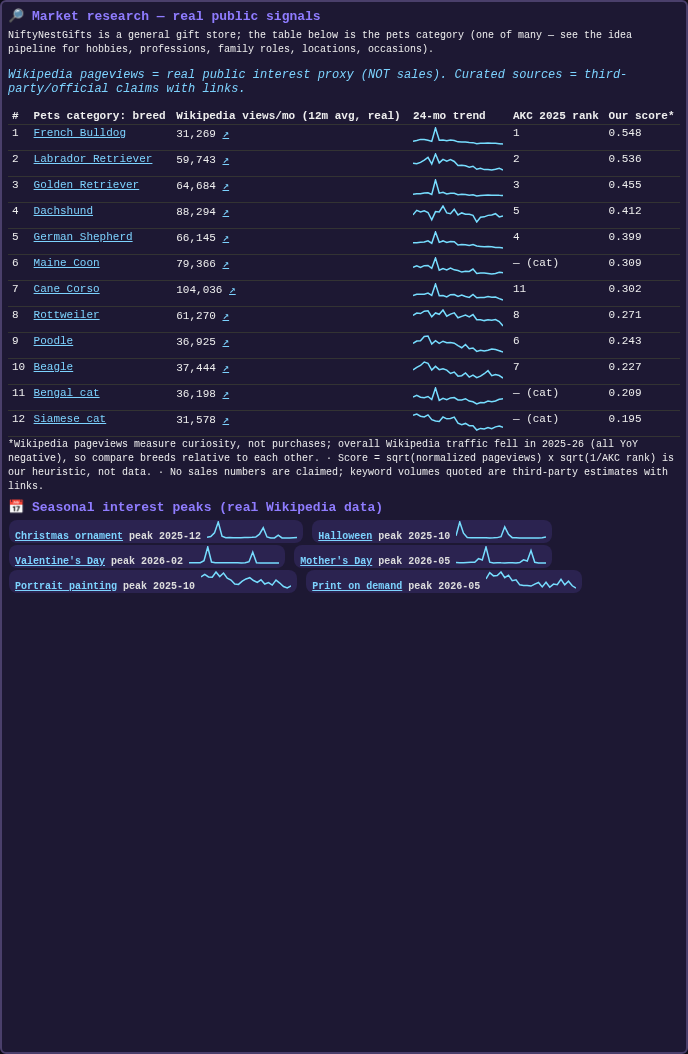
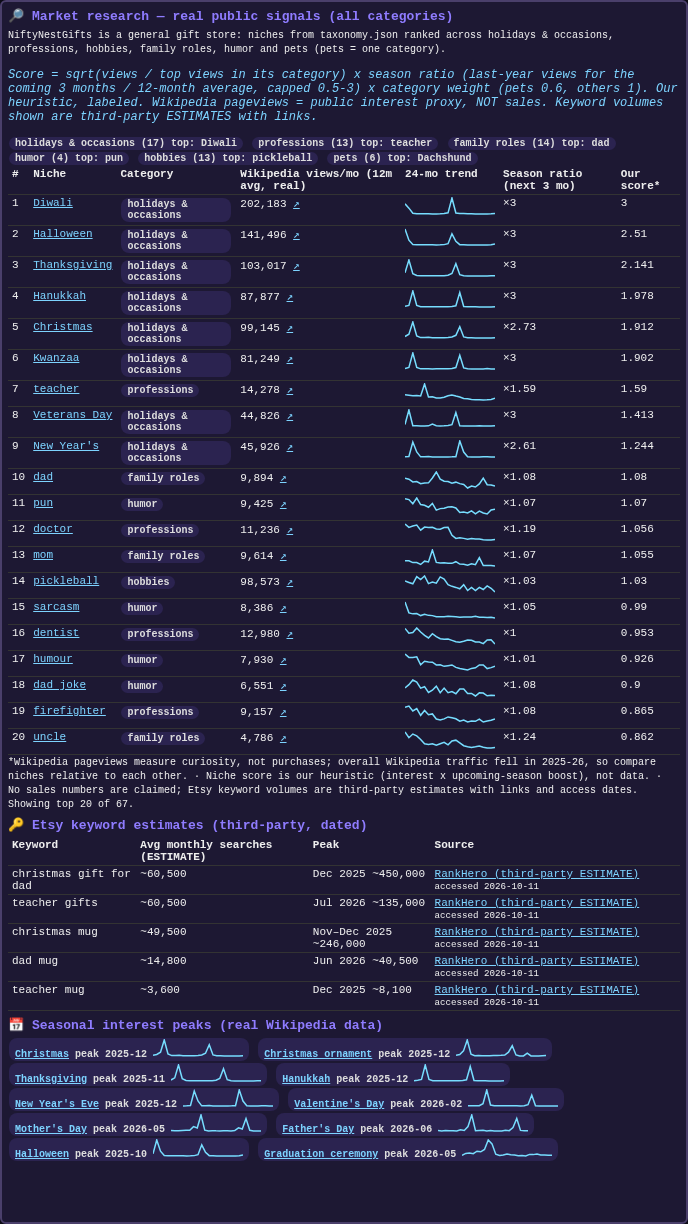
Pre-publish review gate in Live Ops, playbook v1.5.0 (gate, AI tools, renewal, photo sync lessons)

Changed region(s): [[0.0, 0.0, 0.9767, 0.9715], [0.0916, 0.7287, 0.1221, 0.759]]

diff --git a/prep.js b/prep.js
@@ -56,6 +56,7 @@ function render(){const C=D.curated,Q=plan(D);
  ${window.PREPX?PREPX.html(D,BL):''}
  <div class="lop" style="grid-column:span 2"><h3>🚀 Launch queue — drafted listings</h3><table class="ptab"><tr><th>#</th><th>Listing title (SEO)</th><th>Tags</th><th>Price</th><th>Status</th><th>Target</th></tr>${Q.map((q,k)=>`<tr><td>${k+1}</td><td>${esc(q.title)}<br><small>${esc(q.desc.slice(0,120))}…</small></td><td><small>${q.tags.map(esc).join(', ')}</small></td><td>$${q.price}</td><td class="y">${q.status}${q.rewritten?`<br><small>✎ SEO rewritten ${q.rewritten}</small>`:''}</td><td>${q.target}</td></tr>`).join('')}</table><small>When Etsy + Printify are connected, the robot creates Printify products, then sends this batch to Dom's approval queue (enforced by the backend) before anything goes live. Etsy listing fee $${EC.etsy.listingFee}/listing → batch ${'$'+(Q.length*EC.etsy.listingFee).toFixed(2)}.</small></div>
  <div class="lop"><h3>🛡 Channel rules (enforced on the server)</h3><div><b>Etsy</b> — original designs only: our own artwork printed by Printify, or our own digital files. Every physical listing discloses <b>Printify as production partner</b> and sets the AI-disclosure flag. Drop-shipped or resold supplier products are blocked (server returns 422).</div><div style="margin-top:4px"><b>Shopify</b> — all original designs, plus an <b>optional</b> general drop-ship supplier adapter (off by default). A supplier product can only be proposed if it passes vetting (rating ≥4.5, ≥100 reviews, US delivery ≤10 days, returns policy, no brands/trademarks, sample order first) and clears the <b>30% margin floor</b> after Shopify fees + supplier cost + shipping. It still needs Dom's approval.</div></div>
+ <div class="lop"><h3>🛂 Pre-publish review gate (mandatory, every publish)</h3><small>Runs in the worker before auto-publish, approval-link publish and manual publish (review.js · playbook <code>pre_publish_review</code>). Any failure blocks publish → Dom's queue + digest.</small><ol style="margin:4px 0 0 16px;font-size:12px"><li>xAI vision review of EVERY photo vs the exact Printify mockup: main = styled lifestyle scene with background; same mug/print/colors; text legible & spelled right; one mug, no artifacts/brand marks; design not split</li><li>Title rules (70–140, Title Case, no repeats, keyword first) · 13 tags ≤20</li><li>Description timing line · no AI wording · Printify production partner</li><li>Worst-case profit ≥ $5.50 (12% offsite ads) · competitive price</li><li>Free shipping · personalization with Dom's exact text</li><li>5+ photos selected, then verify what actually synced after publish</li></ol><small>Etsy checklist after publish: Free US Shipping – Printify profile · production partner Printify · How it's made → tools = ONLY "An AI generator" · Renewal = Automatic · lifestyle photo first, 5+ photos · Offsite Ads ON.</small></div>
  <div class="lop"><h3>🔌 Connections checklist</h3>${CONNS.map(c=>{const st=connState(c[0]);return `<div class="conn"><b>${c[0]}</b> <span class="pill ${st[1]}">${st[0]}</span><br><small>Needs: ${esc(c[1])}<br>Unlocks: ${esc(c[2])}</small></div>`}).join('')}<small>See GO-LIVE.md. No keys are ever stored in this site.</small></div>
  <div class="lop"><h3>🧠 Next steps (robot's plan)</h3><ol>${nextSteps(D,Q).map(s=>`<li>${s}</li>`).join('')}</ol><small>Also shown in the main game's Brain panel.</small></div></div>`;
  wirePipe();window.WLINK&&WLINK.mount();window.PREPX&&PREPX.wire(regen=>{if(regen&&window.IDEAS){runs++;BL=IDEAS.generate(D,{taxonomy:D.tax,target:BL?BL.config.target:5000,dailyCap:BL?BL.config.dailyCap:8,minScore:BL?BL.config.minScore:.18,house:PREPX.house(),digitalShare:BL&&BL.mix?BL.mix.digital:.4,prevExperiments:BL?BL.experiments:[]})}render()});$('pSim').onclick=()=>{close();window.LIVEOPS.open()};$('pX').onclick=close}

diff --git a/workerlink.js b/workerlink.js
@@ -11,6 +11,7 @@ function draw(el){const {s,a,d,sp}=last,wait=a.filter(x=>x.state==='waiting').so
   <button id="wlrun">▶ Run now</button> <button id="wlkill">${s.kill?'Resume worker':'⏹ Kill switch'}</button> <button id="wlref">↻</button></div>
   ${(s.reminders||[]).length?`<h3>⚠ Etsy to-do after publish (${s.reminders.length})</h3>${s.reminders.map(r=>`<div class="conn"><b>${esc(String(r.title).replace(/^Publish to Etsy: /,''))}</b>${r.etsy?` · <a href="${esc(r.etsy)}" target="_blank">Etsy listing</a>`:''}<br>${esc(r.todo)} <button data-done="${esc(r.printify)}">Done</button></div>`).join('')}`:''}
   <h3>✅ Waiting for Dom's approval (${wait.length})</h3>${wait.map(x=>`<div class="conn">${esc(x.title||x.method+' '+x.svc+x.path)} <small>${t(x.at)}</small> — <a href="${esc(x.link)}" target="_blank"><b>Review &amp; approve</b></a> <small>(approved items publish on the next hourly run, within the daily cap)</small></div>`).join('')||'<i>nothing waiting</i>'}
+  <h3>⛔ Blocked by pre-publish review (${Object.keys(s.blocked||{}).length})</h3>${Object.entries(s.blocked||{}).map(([id,b])=>`<div class="conn"><b>${esc(b.title||id)}</b><br><small>${(b.fails||[]).map(esc).join(' · ')}</small></div>`).join('')||'<small>none</small>'}
   <h3>🧾 Real Printify drafts made by the worker (${dr.length})</h3>${dr.map(([id,x])=>`<div class="conn">${x.mockup?`<img src="${esc(x.mockup)}" width="70" style="float:left;margin-right:6px">`:''}<b>${esc(x.title||id)}</b> · $${x.price||'—'} free shipping · <span class="y">${esc(x.status)}</span>${x.printify?` · <a href="https://printify.com/app/editor/${esc(x.printify)}" target="_blank">Printify</a>`:''}${x.err?`<br><small class="r">${esc(x.err)}</small>`:''}<div style="clear:both"></div></div>`).join('')||'<i>none yet</i>'}<small id="wlmsg"></small>`;
  el.querySelector('#wlref').onclick=()=>refresh(el);el.querySelector('#wlrun').onclick=async()=>{el.querySelector('#wlrun').textContent='running…';try{await call('POST','/api/worker/run')}catch(e){}refresh(el)};
  el.querySelectorAll('[data-done]').forEach(b=>b.onclick=async()=>{await call('POST','/api/reminders/done',{printify:b.dataset.done});refresh(el)});

diff --git a/PLAYBOOK.md b/PLAYBOOK.md
@@ -1,15 +1,15 @@
-# NiftyNestGifts Playbook v1.4.0 (2026-10-11)
+# NiftyNestGifts AI Founder Playbook v1.5.0 (2026-10-11)
 
-Machine-readable source: `research/playbook.json` (loaded by the worker every run, injected into xAI prompts, enforced in the grader where checkable). Runtime lessons are appended via the signed `/api/lessons` endpoint.
+Machine-readable source: research/playbook.json (loaded by the worker, injected into prompts, enforced by grader + pre-publish review gate).
 
-## Shop
+## shop
 ```json
 {
  "name": "NiftyNestGifts",
  "positioning": "General gift store (not pet-focused): occasions, hobbies, professions, family roles, locations; pets are one category among many."
 }
 ```
-## Pricing
+## pricing
 ```json
 {
  "free_us_shipping": true,
@@ -28,7 +28,7 @@ Machine-readable source: `research/playbook.json` (loaded by the worker every ru
  "printify_free_shipping_toggle": "sales_channel_properties.free_shipping=true (API)"
 }
 ```
-## Timing
+## timing
 ```json
 {
  "line": "Made to order: ships in 2-7 business days (Printify production), then 2-5 business days US delivery. Free US shipping.",
@@ -44,7 +44,7 @@ Machine-readable source: `research/playbook.json` (loaded by the worker every ru
  ]
 }
 ```
-## Description
+## description
 ```json
 {
  "must_include": [
@@ -60,7 +60,7 @@ Machine-readable source: `research/playbook.json` (loaded by the worker every ru
  "note": "No AI wording in descriptions; the Etsy AI flag is set separately in listing settings."
 }
 ```
-## Production Partner
+## production_partner
 ```json
 {
  "name": "Printify",
@@ -68,7 +68,7 @@ Machine-readable source: `research/playbook.json` (loaded by the worker every ru
  "description": "Print-on-demand partner prints and ships our original designs"
 }
 ```
-## Title
+## title
 ```json
 {
  "pattern": "<Design phrase> <Product type>, <Occasion/recipient> Gift, <Style> <Synonym product word> <Size>",
@@ -81,7 +81,7 @@ Machine-readable source: `research/playbook.json` (loaded by the worker every ru
  "example": "Sleigh All Day Coffee Mug, Boho Christmas Gift, Eucalyptus Holiday Cup 11oz"
 }
 ```
-## Tags
+## tags
 ```json
 {
  "count": 13,
@@ -89,7 +89,7 @@ Machine-readable source: `research/playbook.json` (loaded by the worker every ru
  "unique": true
 }
 ```
-## Photos
+## photos
 ```json
 {
  "min": 5,
@@ -97,7 +97,7 @@ Machine-readable source: `research/playbook.json` (loaded by the worker every ru
  "front_mockup_in_gallery": true
 }
 ```
-## Design
+## design
 ```json
 {
  "print_ready": "Create at the provider print-area size (11oz mug: 2700x1120, white background)",
@@ -106,14 +106,14 @@ Machine-readable source: `research/playbook.json` (loaded by the worker every ru
  "no_real_people": true
 }
 ```
-## Consistency
+## consistency
 ```json
 {
  "rule": "Every lifestyle photo/video is generated FROM the real Printify mockup as reference/first frame. Keep the exact product: plain glossy white 11oz ceramic mug, C-handle, identical design, text and colors. Never generic, speckled, colored or different mugs.",
  "qa": "xAI vision compares each generated asset to the mockup (same shape, handle, design, text spelled identically); mismatches are rejected before use."
 }
 ```
-## Lifestyle
+## lifestyle
 ```json
 {
  "rules": [
@@ -124,7 +124,7 @@ Machine-readable source: `research/playbook.json` (loaded by the worker every ru
  ]
 }
 ```
-## Video
+## video
 ```json
 {
  "recipe": [
@@ -138,24 +138,24 @@ Machine-readable source: `research/playbook.json` (loaded by the worker every ru
  "enabled_by_default": false
 }
 ```
-## Branding
+## branding
 ```json
 {
  "banner": "Etsy shop banner 3360x840 with all text in the center band (safe on mobile crop)"
 }
 ```
-## Etsy Post Publish Checklist
+## etsy_post_publish_checklist
 ```json
 [
  "Shipping profile: Free US Shipping - Printify",
  "Production partner: Printify",
- "AI disclosure flag set in listing settings",
+ "How it's made > What tools are used: ONLY 'An AI generator' checked (Etsy AI disclosure; production partner covers Printify printing)",
  "Renewal: Automatic",
- "Photo 1 = lifestyle scene (upload if channel did not)",
+ "Photo 1 = styled lifestyle scene, 5+ photos visible on Etsy (upload QA'd lifestyle photos; Printify syncs only selected mockups)",
  "Etsy Offsite Ads ON (shop setting; Printify API cannot set it)"
 ]
 ```
-## Personalization
+## personalization
 ```json
 {
  "enabled_every_release": true,
@@ -174,13 +174,13 @@ Machine-readable source: `research/playbook.json` (loaded by the worker every ru
  }
 }
 ```
-## Orders
+## orders
 ```json
 {
  "delayed_orders": "Dom set Printify to auto-send delayed orders to production; the worker flags any held/on-hold orders in the daily digest."
 }
 ```
-## Release Checks
+## release_checks
 ```json
 {
  "store_settings_monthly_confirm": {
@@ -227,22 +227,56 @@ Machine-readable source: `research/playbook.json` (loaded by the worker every ru
  "audit": "Worker verifies readable per-product settings before every publish and in a daily audit of all products; mismatches are flagged in the digest (free_shipping auto-fixed)."
 }
 ```
+## pre_publish_review
+```json
+{
+ "mandatory": true,
+ "applies_to": [
+  "worker auto-publish",
+  "approval-link publish",
+  "manual publish via POST /api/review/:pid"
+ ],
+ "photo_review": "xAI vision review of EVERY photo vs the exact Printify front mockup: main photo = styled lifestyle scene with background; same product/print/colors; text legible and spelled right; exactly one mug, no artifacts or brand marks; design not split/duplicated",
+ "details_review": [
+  "title rules (70-140 chars, Title Case, no repeated words, keyword front-loaded)",
+  "13 tags <=20 chars",
+  "description has timing line",
+  "no AI wording",
+  "worst-case profit >= $5.50 (12% offsite ads)",
+  "free shipping on",
+  "personalization on with Dom exact text",
+  "5+ photos selected for publishing"
+ ],
+ "on_fail": "block publish; reasons to approval queue (state \"blocked by review gate\"), Live Ops panel and daily digest",
+ "post_publish": "verify photos that actually synced (Printify selected images >= 5); flag in audit/digest if fewer"
+}
+```
+## memory
+```json
+{
+ "deleted_on_request": "Products Dom asks to delete are removed from Printify/Etsy/queues and recorded in worker state + lessons so the worker never re-creates them (e.g. Cozy Electric Sparks)."
+}
+```
 ## Lessons
-- **2026-10-11** (Dom): Shop is a general gift store, not dog-focused.
-- **2026-10-11** (Dom): Always free US shipping, baked into price; keep 30% margin floor.
-- **2026-10-11** (Etsy): Etsy flagged repeated title words ('christmas', 'mug'): never repeat words; product word once with synonyms.
-- **2026-10-11** (Dom): Remove AI wording from descriptions; AI disclosure is a listing setting only.
-- **2026-10-11** (QA): Video with big camera moves morphed the product (handle vanished, marshmallows appeared): use locked-off camera, subtle motion only, start from final-scene still.
-- **2026-10-11** (Dom): Product consistency across ALL images/videos: generate from the real Printify mockup; exact plain glossy white 11oz mug, C-handle, identical design; QA-reject mismatches.
-- **2026-10-11** (Dom): Main (first) listing photo must be a styled lifestyle scene, never a plain white mockup.
-- **2026-10-11** (Dom): Listings need 5-10 photos; Etsy auto-renew on.
-- **2026-10-11** (Dom): Enable Printify free Standard shipping ($7.29) and Etsy Offsite Ads (12%) on every release; price so worst-case margin (incl. ads) stays >= 30% (mug $29.99).
-- **2026-10-11** (Dom): Every lifestyle photo/video must start from the real Printify mockup; automated vision QA rejects mismatched mugs.
-- **2026-10-11** (Dom): Price competitively at/slightly below benchmarks; margins don't need to be high; floor = $5-6 worst-case profit (incl. 12% offsite ads). Sleigh All Day stays $25.99.
-- **2026-10-11** (Dom): Enable personalization on every release (~20% higher price for personalized); proofs need Dom approval before production.
-- **2026-10-11** (Dom): Printify delayed orders auto-send to production; flag held orders in the digest.
-- **2026-10-11** (Dom): Standard release checks = Dom's Printify store settings (auto-send delayed orders, 1-hour auto submission incl. personalized, details-to-publish: mockups and shipping profile OFF). Verify per-product settings before publish + daily audit; monthly confirm store settings.
-- **2026-10-11** (QA): Conflict: personalized orders auto-submit after 1 hour, so worker proofs may arrive after production starts - proofs are best-effort unless Dom changes that setting.
-- **2026-10-11** (Dom): Personalized orders set to Manual in Printify so proofs are approved before production (resolves the auto-submit conflict).
-- **2026-10-11** (Dom): Deleted 'Cozy Electric Sparks' electrician mug draft: did not meet requirements (1 photo, no lifestyle main photo, personalization off). Only release ideas that pass the full playbook.
-- **2026-10-11** (Dom): Standard personalization buyer instructions: "Please add only the text you want printed on your product. Reach out to us directly for any additional requests." (Printify format captured; applied to every release).
+- 2026-10-11 (Dom): Shop is a general gift store, not dog-focused.
+- 2026-10-11 (Dom): Always free US shipping, baked into price; keep 30% margin floor.
+- 2026-10-11 (Etsy): Etsy flagged repeated title words ('christmas', 'mug'): never repeat words; product word once with synonyms.
+- 2026-10-11 (Dom): Remove AI wording from descriptions; AI disclosure is a listing setting only.
+- 2026-10-11 (QA): Video with big camera moves morphed the product (handle vanished, marshmallows appeared): use locked-off camera, subtle motion only, start from final-scene still.
+- 2026-10-11 (Dom): Product consistency across ALL images/videos: generate from the real Printify mockup; exact plain glossy white 11oz mug, C-handle, identical design; QA-reject mismatches.
+- 2026-10-11 (Dom): Main (first) listing photo must be a styled lifestyle scene, never a plain white mockup.
+- 2026-10-11 (Dom): Listings need 5-10 photos; Etsy auto-renew on.
+- 2026-10-11 (Dom): Enable Printify free Standard shipping ($7.29) and Etsy Offsite Ads (12%) on every release; price so worst-case margin (incl. ads) stays >= 30% (mug $29.99).
+- 2026-10-11 (Dom): Every lifestyle photo/video must start from the real Printify mockup; automated vision QA rejects mismatched mugs.
+- 2026-10-11 (Dom): Price competitively at/slightly below benchmarks; margins don't need to be high; floor = $5-6 worst-case profit (incl. 12% offsite ads). Sleigh All Day stays $25.99.
+- 2026-10-11 (Dom): Enable personalization on every release (~20% higher price for personalized); proofs need Dom approval before production.
+- 2026-10-11 (Dom): Printify delayed orders auto-send to production; flag held orders in the digest.
+- 2026-10-11 (Dom): Standard release checks = Dom's Printify store settings (auto-send delayed orders, 1-hour auto submission incl. personalized, details-to-publish: mockups and shipping profile OFF). Verify per-product settings before publish + daily audit; monthly confirm store settings.
+- 2026-10-11 (QA): Conflict: personalized orders auto-submit after 1 hour, so worker proofs may arrive after production starts - proofs are best-effort unless Dom changes that setting.
+- 2026-10-11 (Dom): Personalized orders set to Manual in Printify so proofs are approved before production (resolves the auto-submit conflict).
+- 2026-10-11 (Dom): Deleted 'Cozy Electric Sparks' electrician mug draft: did not meet requirements (1 photo, no lifestyle main photo, personalization off). Only release ideas that pass the full playbook.
+- 2026-10-11 (Dom): Standard personalization buyer instructions: "Please add only the text you want printed on your product. Reach out to us directly for any additional requests." (Printify format captured; applied to every release).
+- 2026-10-11 (Dom): Mandatory pre-publish review gate: vision review of every photo + full listing-details review; any failure blocks publish and goes to Dom with reasons.
+- 2026-10-11 (Dom): Teacher Elves published with only 1 photo synced: the API cannot select mockups (PUT images is ignored) and Printify keeps only the default mockup selected; store 'details to publish: mockups' is OFF. Fix: select all mockups in the Printify editor (or turn store mockups ON) before publish; gate blocks <5 selected; post-publish sync check flags it.
+- 2026-10-11 (Dom): Mountain Man (worker draft) was NOT published: it waited for approval because guardrails failed (4 photos, 68-char title, no lifestyle main photo). Its Printify photo 1 is a plain white mockup, so photo 1 must be a QA'd lifestyle upload.
+- 2026-10-11 (Dom): Etsy 'How it's made > What tools are used' must have ONLY 'An AI generator' checked; not readable via API, so daily digest reminds.
